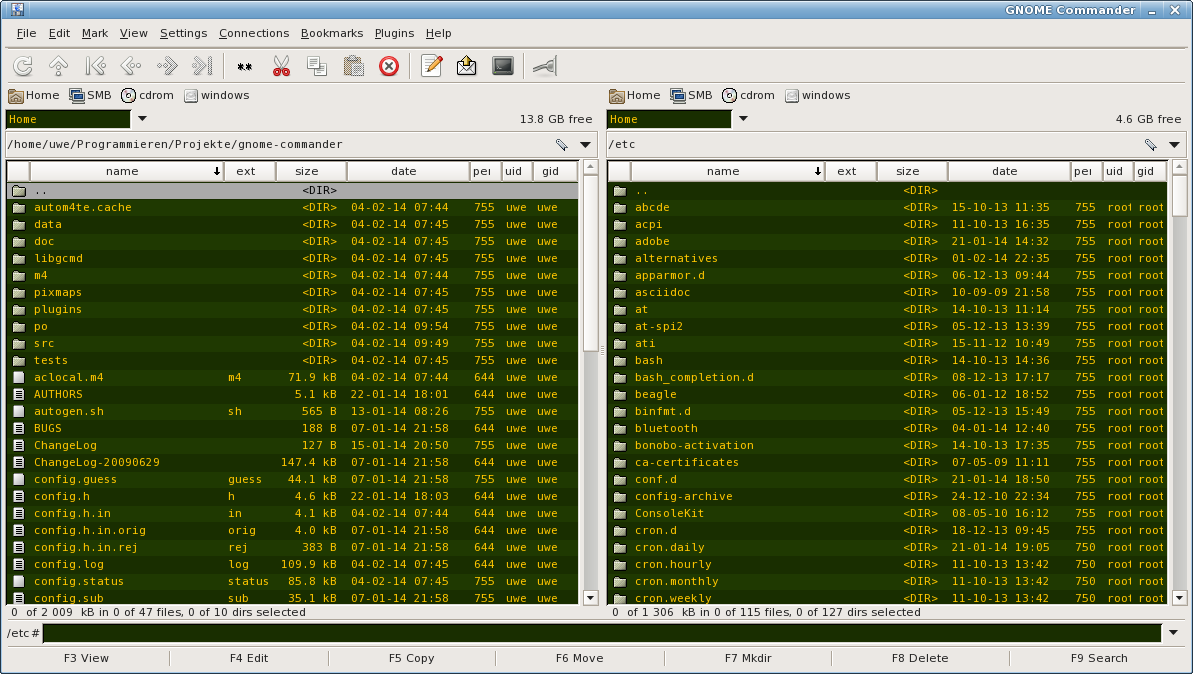
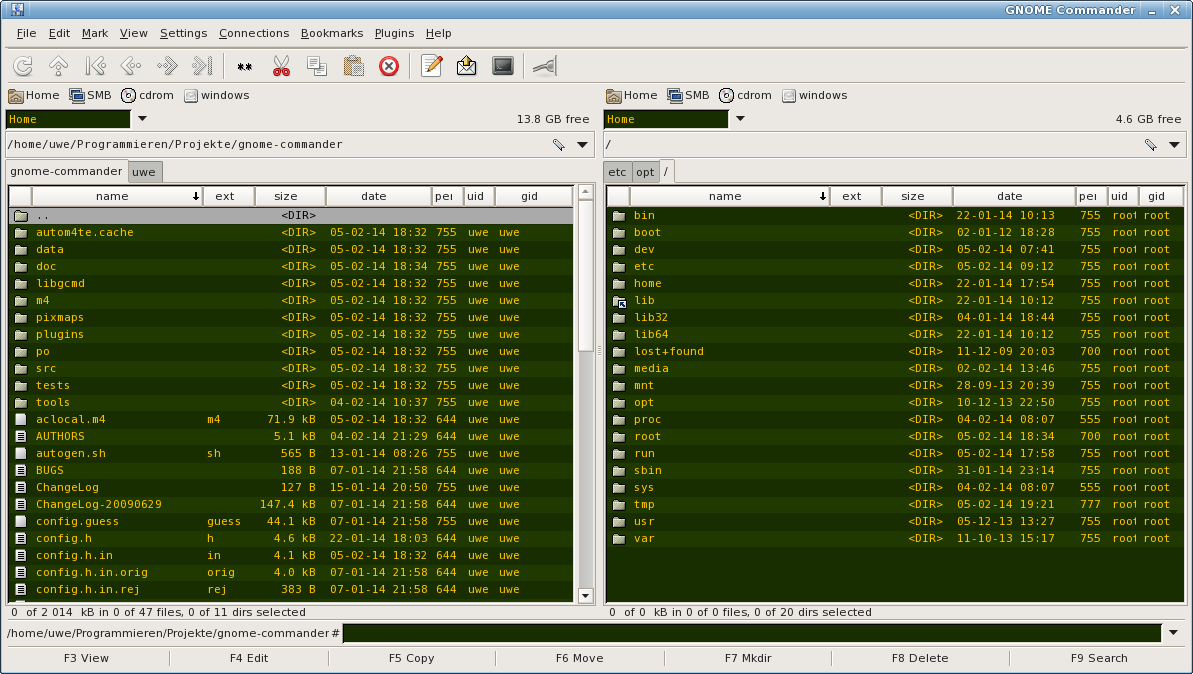
Updated screenshots

Changed region(s): [[0.0, 0.1246, 1.0, 0.9659]]

diff --git a/shots.html b/shots.html
@@ -42,10 +42,10 @@
 <h3>Main window</h3>
 <p>Various screeshots of the main window</p>
 <ul>
-<li><a href="ss/shot_1.4_green_tiger.png">Green tiger colorsheme</a> (v1.4)</li>
+<li><a href="ss/shot_1.4_green_tiger.png">Green tiger colorsheme</a> (v1.4, with tabs)</li>
 <li><a href="ss/shot_1.2.4.png">Default colorsheme</a> (v1.2.4)</li>
 <li><a href="ss/shot_1.2.4_mod.png">Another colorsheme</a> (v1.2.4)</li>
-<li><a href="http://www.thg.ru/software/20050615/images/net_11.png">A Russian screenshot</a> (v1.1.6)</li>
+<li><a href="http://www.thg.ru/software/20050615/images/net_15.png">A Russian screenshot</a> (v1.1.6)</li>
 <li><a href="ss/shot_1.2.0_de.png">A different colorsheme</a> (german translation v1.2.0)</li>
 </ul>
 <p>Older screeshots of the main window</p>
